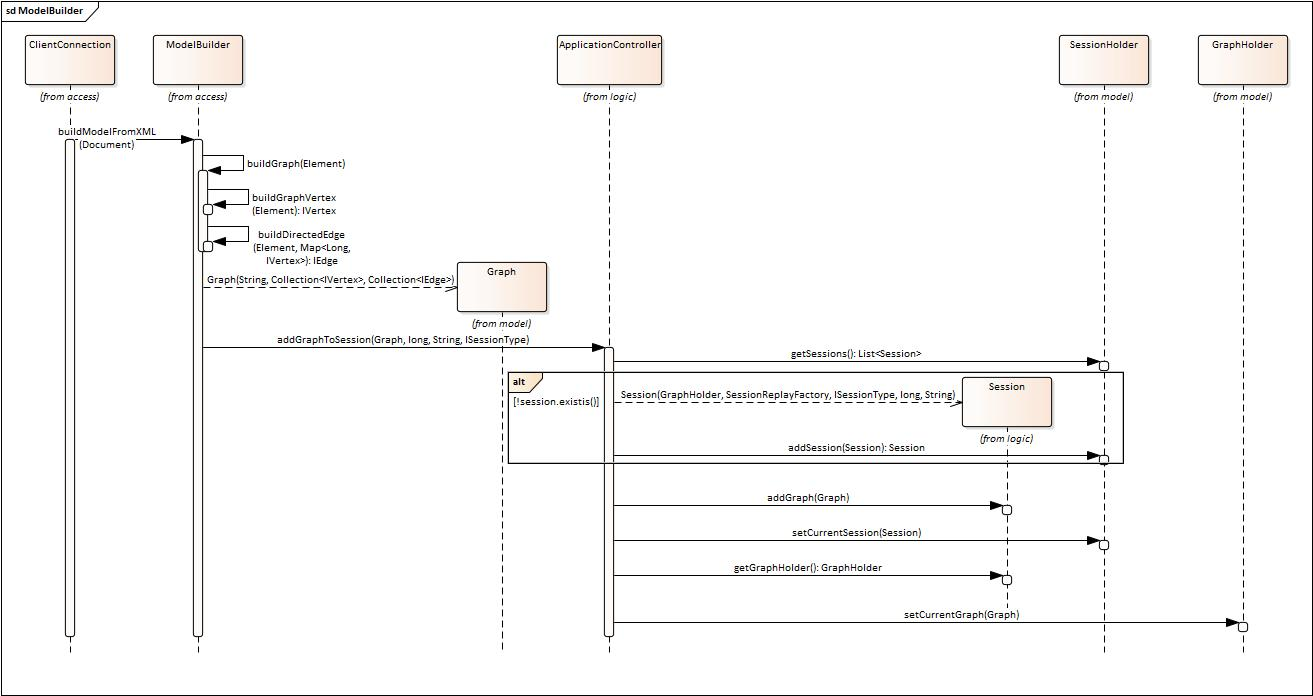
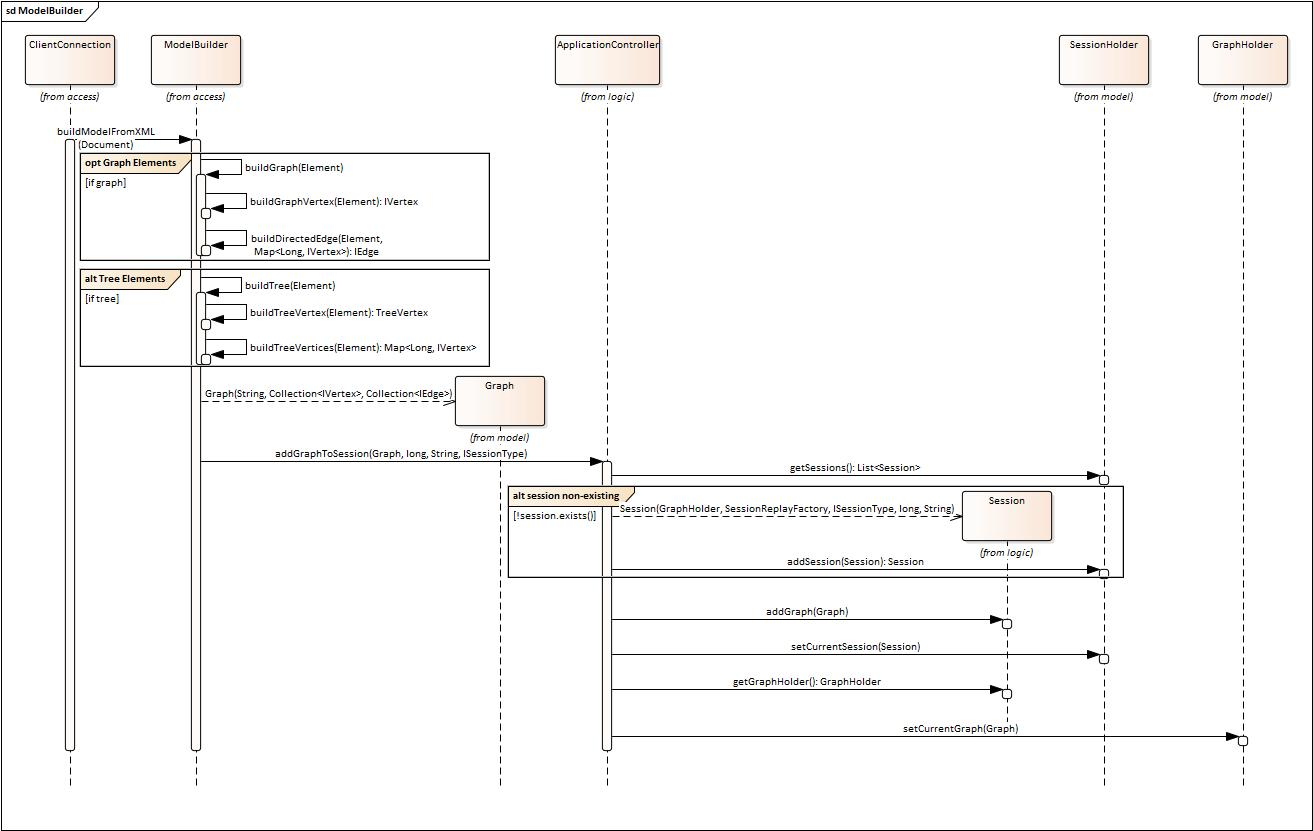
246: finish chapter sequence diagrams

diff --git a/GVS_Documentation.tex b/GVS_Documentation.tex
@@ -508,11 +508,9 @@ eprint=false
 	Während der Analyse-Phase dieses Projekts wurden die Programmabläufe in GVS 1.0 untersucht (siehe \ref{ssec:sequence-1}). Um Änderungen im Programmablauf aufzuzeigen, finden sich in diesem Kapitel neue Sequenzdiagramme, die die selben Abläufe in GVS 2.0 abbilden. 
 	
 	\subsubsection{Verbindungsaufbau}
-	Abbildung \ref{fig:sd-verbindungsaufbau-2} zeigt den Start der GVS 2.0 Applikation über die \textit{GVSApplication} sowie das Empfangen von Daten über die Socket. Änderungen gegenüber GVS 1.0 finden sich in folgender Liste:
-	\begin{description}
-		\item[\gls{di}] \hfill \\
-		GVS 2.0 setzt an vielen Orten auf \gls{di} (siehe \ref{DI})
-	\end{description}
+	Abbildung \ref{fig:sd-verbindungsaufbau-2} zeigt den Start der GVS 2.0 Applikation über die \textit{GVSApplication} sowie das Empfangen von Daten über die Socket. Im Diagramm nicht ersichtlich ist, dass GVS 2.0 an vielen Orten auf \gls{di} setzt (siehe \ref{DI}). Zum Beispiel werden die vier Klassen \textit{Watchdog},  \textit{ConnectionMonitor},  \textit{GvsXmlReader} und  \textit{ModelBuilder} (rechts im Diagramm) in den Constructor der  \textit{ClientConnection} ''injected''.
+	
+	Details zu den genauen Änderungen gegenüber GVS 1.0 finden sich im Abschnitt \ref{label}. %TODO: ergänzen welcher Abschnitt, wenn klar ist, wie Realisations Kapitel strukturiert ist, änderungen sind watchdog, clientConnection&gvsxmlreader,...
 
 	\begin{figure}[h!]
 		\centering
@@ -521,8 +519,8 @@ eprint=false
 		\label{fig:sd-verbindungsaufbau-2}
 	\end{figure}
 	
-	
 	\subsubsection{ModelBuilder}
+	Das Sequenzdiagramm in Abbildung \ref{fig:sd-modelbuilder-2} zeigt, wie aus einem empfangenen XML File \gls{pojo}s des Business Layers erstellt werden. Sehr klar ist ersichtlich, dass im Vergleich zu GVS 1.0 die Trennung zwischen Graph und Tree viel weniger ausgeprägt ist, um \textit{duplicated Code} zu vermeiden (siehe \ref{graph-vs-tree}).
 	\begin{figure}[h!]
 		\centering
 		\includegraphics[width=\linewidth]{assets/images/sequence_ModelBuilder}
@@ -531,6 +529,10 @@ eprint=false
 	\end{figure}	
 
 	\subsubsection{Load \& Save Session}
+	Ein User von GVS 2.0 hat die Möglichkeit Sessions zu speichern und vorherige Sessions zu laden. Was sich dabei hinter den Kulissen abspielt, zeigt Abbildung \ref{fig:sd-load_save_session-2}. Die links eingezeichnete blaue Klasse \textit{JavaFX} widerspiegelt UI Events, welche per \textit{EventHandler} an die \textit{AppView} weitergeleitet werden.
+	
+	Durch die komplette Ersetzung des Presentation Layers sowie eine klarere Trennung der verschiedenen Schichten unterscheidet sich dieses Sequenzdiagramm stark zum entsprechenden Pendant in GVS 1.0 (\ref{fig:sd-applicationview}). Sie decken jedoch beide die gleichen Use Cases ab.
+	
 	\begin{figure}[h!]
 		\centering
 		\includegraphics[width=\linewidth]{assets/images/sequence_LoadSave_Session}
@@ -540,6 +542,8 @@ eprint=false
 	
 	
 	\subsubsection{Session}	
+	Auch in Abbildung \ref{fig:sd-session-2} zeigen sich die Änderungen im Presentation Layer und die strukturellen Änderungen an der gesamten Applikation stark. So ist nicht direkt auf den ersten Blick ersichtlich, dass Abbildung \ref{fig:sd-graphsessioncontroller} und Abbildung \ref{fig:sd-session-2} die gleiche Programmlogik aufzeigen, nämlich wie \gls{pojo}s des Business Layers an das Presentation Layer gelangen und auf dem UI dargestellt werden.
+	
 	\begin{figure}[h!]
 		\centering
 		\includegraphics[width=\linewidth]{assets/images/sequence_Session}
@@ -653,7 +657,7 @@ eprint=false
 	\subsubsection{5. Autolayout}
 	Das Autolayout steht nur für Graphen zur Verfügung. Alle Vertices die noch nicht mit der Maus positioniert wurden, werden vom Graph Layouter so positioniert, dass es möglichst wenig Überschneidungen der Edges gibt. Standardmässig verwendet der Graph Layouter immer zufällige Startkoordinaten. Dies kann über den ToggleButton deaktiviert werden, damit immer das gleiche Layout resultiert.
 	
-	\section{Graph und Tree Verschmelzung}
+	\section{Graph und Tree Verschmelzung} \label{graph-vs-tree}
 	In theoretischer Hinsicht sind Bäume Spezialformen von Graphen. In GVS 1.0 wurden diese beiden Strukturen jedoch durchgehend getrennt modelliert. GVS 2.0 vereinigt diese Strukturen soweit es technisch Sinn macht, mit dem Ziel, Code Duplikationen weit möglichst zu vermeiden.
 	
 	\subsection{Unterschiede}
@@ -669,7 +673,7 @@ eprint=false
 	\begin{itemize}
 		\item Trees und Graphen werden in der Struktur \textit{Graph} vereinigt. Der \textit{ModelBuilder} erstellt für empfangene Bäume sämtliche impliziten Edges.
 		\item Ein \textit{Graph} besitzt eine Liste von Vertices. Diese müssen das Interface \textit{IVertex} implementieren. Es gibt drei konkrete Implementierungen dieses Interfaces. Für reine Graphen wird die Klasse \textit{GraphVertex} benutzt. Die Klassen \textit{TreeVertex} und \textit{LeafVertex} bieten Tree-spzifische Attribute.
-		\item Eine \textit{Session} umfasst jeweils mehrere \textit{Graphen}. Um einer \textit{Session} den richtigen \textit{Layouter} zuzuweisen, besitzt sie einen \textit{SessionType} der beschreibt, ob die enthaltenen Graphen effektive Graphen oder Trees sind.
+		\item Eine \textit{Session} umfasst jeweils mehrere \textit{Graphen}. Es gibt keine Unterscheidung zwischen Graph-Sessions und Tree-Sessions. Um einer \textit{Session} den richtigen \textit{Layouter} zuzuweisen, besitzt sie einen \textit{SessionType} der beschreibt, ob die enthaltenen Graphen effektive Graphen oder Trees sind.
 		\item Nach dem Abschliessen des Layoutingprozesses ist keine Unterscheidung zwischen Trees und Graphen mehr nötig. Dies führt dazu, dass die Strukturen im Presentation Layer vollständig zusammengeführt sind.
 	\end{itemize}
 	

diff --git a/glossar-terms.tex b/glossar-terms.tex
@@ -178,9 +178,9 @@
 
 \newglossaryentry{di}
 {
-	name={DI},
-	description={Dipendency Injection: Abhängigkeiten einer Klasse können zur Laufzeit verändert werden},
-	first={DI (Dipendency Injection)}
+	name={Dependency Injectio},
+	description={Dependency Injection: Abhängigkeiten einer Klasse können zur Laufzeit verändert werden},
+	first={Dependency Injection}
 }
 
 \newglossaryentry{jmx}
